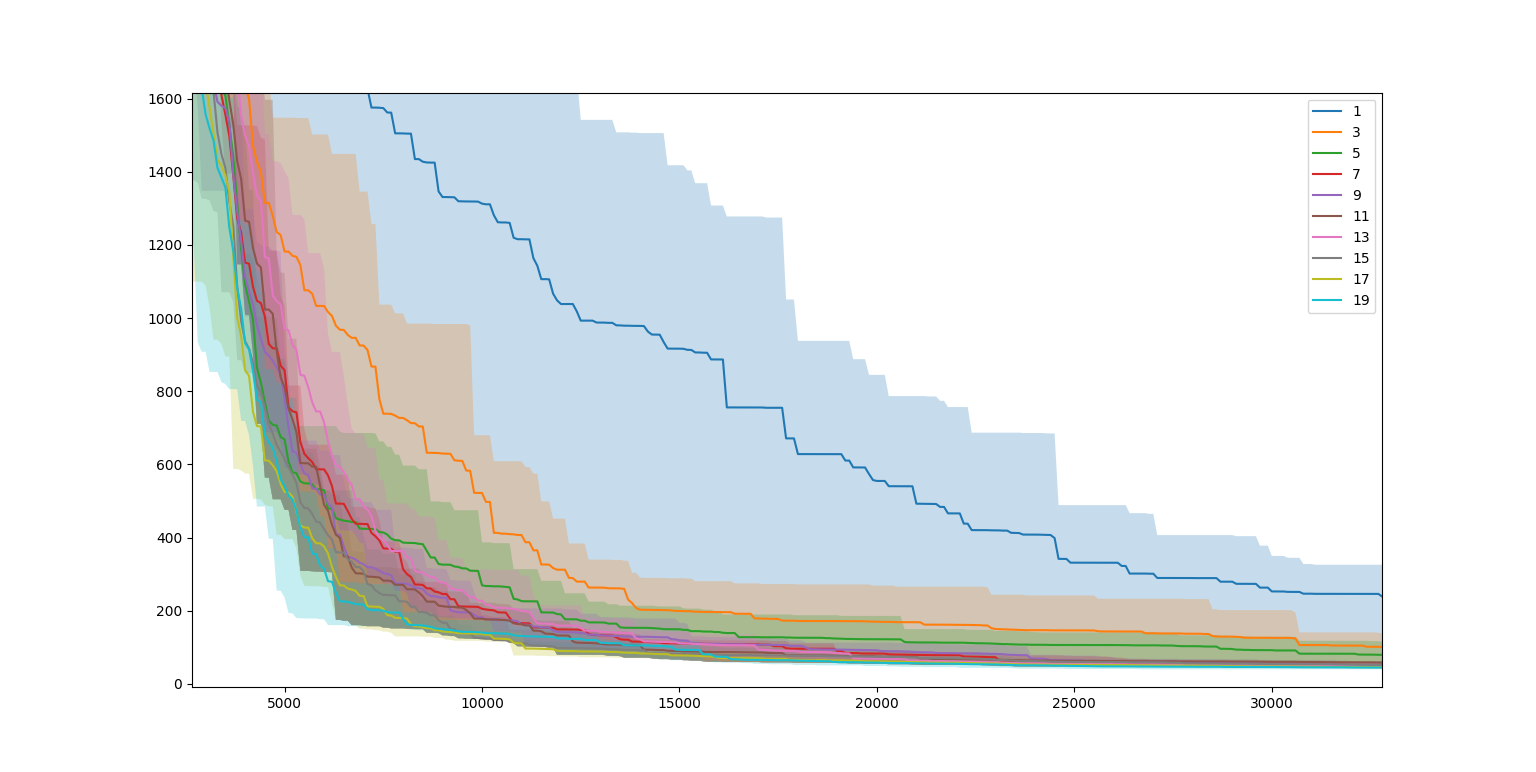
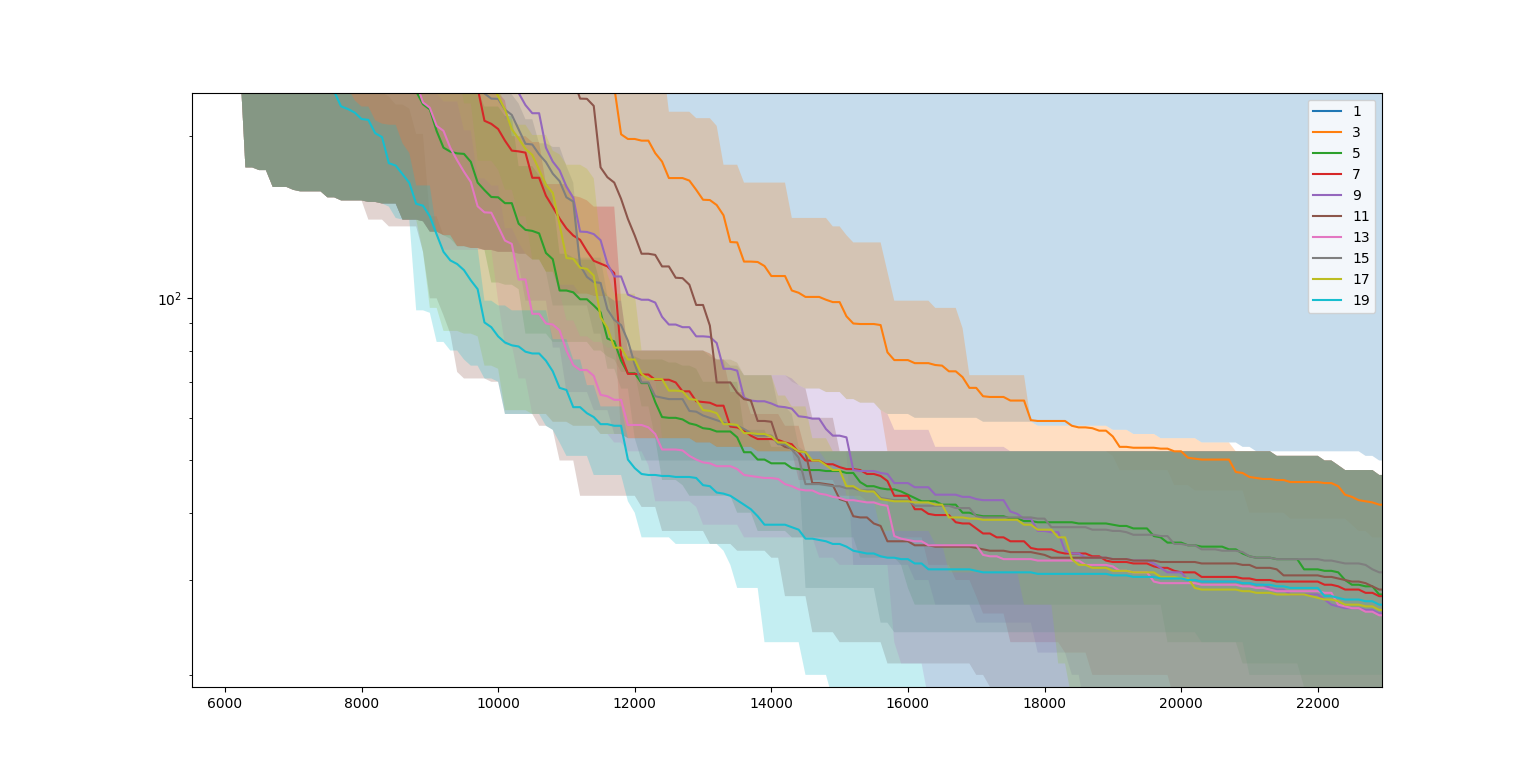
fixed turnament

diff --git a/ZS7/Evolucni algoritmy 1/evaTeaching-python-master/partition.py b/ZS7/Evolucni algoritmy 1/evaTeaching-python-master/partition.py
@@ -6,14 +6,14 @@ import utils
 
 K = 10 #number of piles
 POP_SIZE = 100 # population size
-MAX_GEN = 10000 # maximum number of generations
+MAX_GEN = 1000 # maximum number of generations
 CX_PROB = 0.2 # crossover probability
 MUT_PROB = .5 # mutation probability
 MUT_FLIP_PROB = 0.2 # probability of chaninging value during mutation
 REPEATS = 3 # number of runs of algorithm (should be at least 10)
 OUT_DIR = 'partition' # output directory for logs
 EXP_ID = 'default' # the ID of this experiment (used to create log names)
-TOURNAMENT_COMPETITOR_COUNT = 20
+TOURNAMENT_COMPETITOR_COUNT = 3
 
 Decider = True;
 
@@ -173,7 +173,8 @@ if __name__ == '__main__':
 
     import matplotlib.pyplot as plt
 
-    for parentCount in range (0, 1, 1):
+    for optionComparator in range (1, 2, 1):
+        TOURNAMENT_COMPETITOR_COUNT = optionComparator
         # run the algorithm `REPEATS` times and remember the best solutions from 
         # last generations
         best_inds = []
@@ -208,7 +209,7 @@ if __name__ == '__main__':
 
         # read the summary log and plot the experiment
         evals, lower, mean, upper = utils.get_plot_data(OUT_DIR, EXP_ID)
-        utils.plot_experiment(evals, lower, mean, upper, legend_name = EXP_ID)
+        utils.plot_experiment(evals, lower, mean, upper, legend_name = optionComparator)
     
     #plt.figure(figsize=(12, 8))
     plt.yscale("log")
